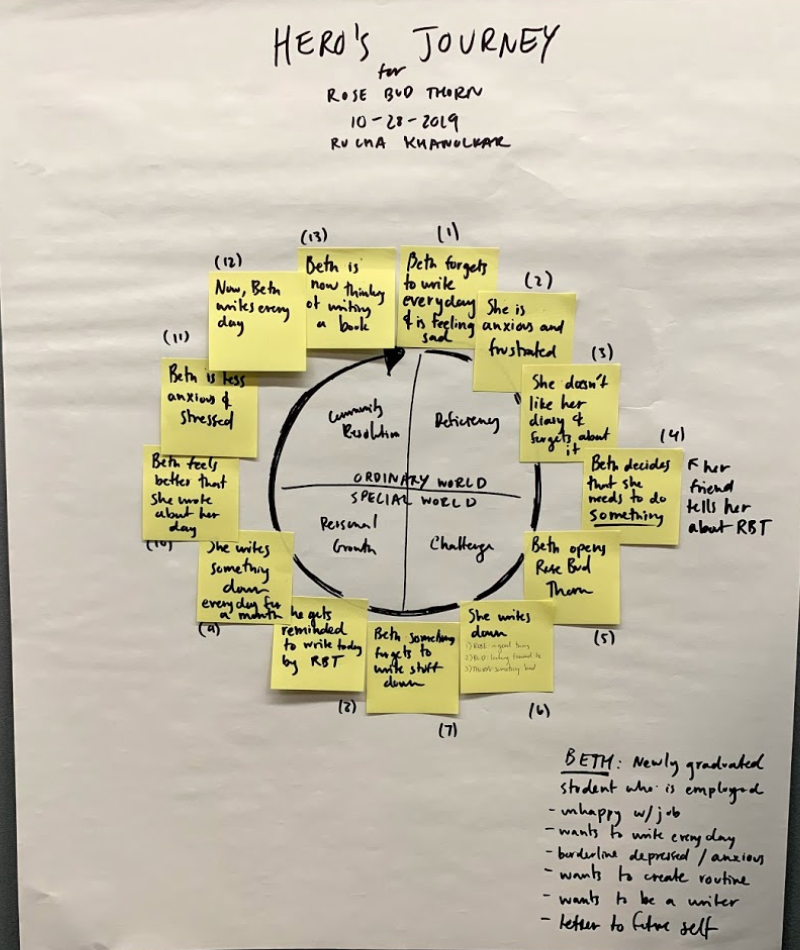
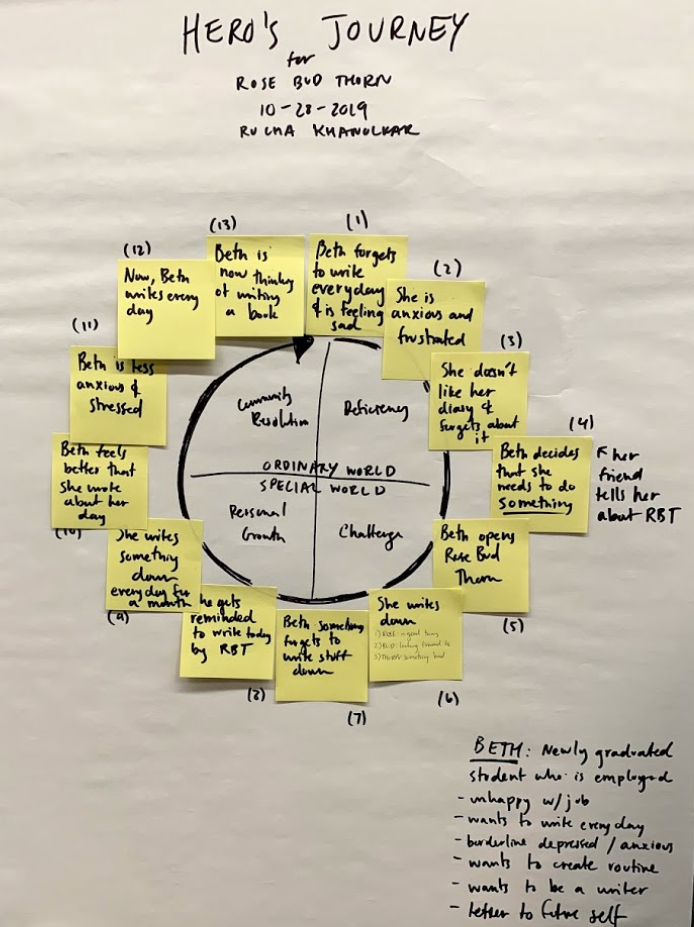
hero's journey

diff --git a/pages/rosebudthorn.html b/pages/rosebudthorn.html
@@ -170,16 +170,24 @@
           </div>
 
           <div class="row">
-            <div class="col-md-5 mx-auto">
+            <div class="col-md-3 mx-auto">
               <br>
               <br>
               <br>
               <h2>Hero's Journey</h2>
               <br>
-              <!-- <img src="/img/budgesitemap.jpg" alt="me" style="width:417px;height:482px;"> -->
+              <img src="/img/rbtherojourney1.png" alt="me" style="width:200px;height:237px;">
               <br>
             </div>
-            <div class="col-md-7 mx-auto">
+            <div class="col-md-3 mx-auto">
+              <br>
+              <br>
+              <br>
+              <br>
+              <img src="/img/rbtherojourney2.png" alt="me" style="width:227x;height:148px;">
+              <br>
+            </div>
+            <div class="col-md-6 mx-auto">
               <br><br><br><br><br>
               <p> To better understand how a user might use this application, I created and workshopped a hero's journey.
                 This was a really fun exercise that helped me figure out certain interactions I wanted to focus on while prototyping. 
